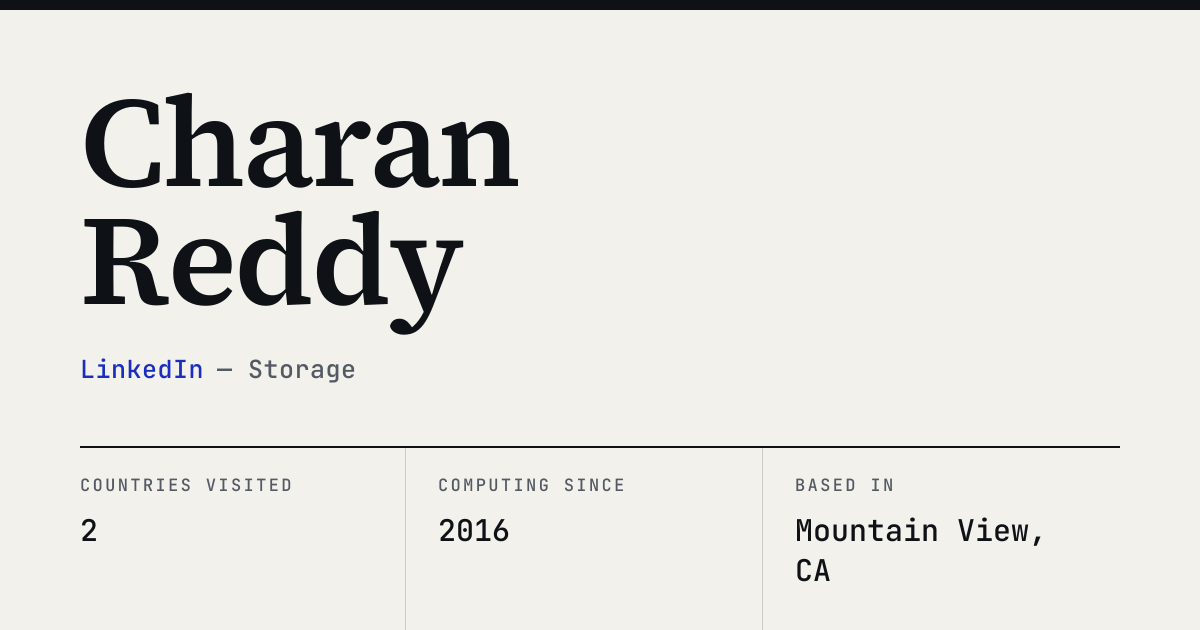
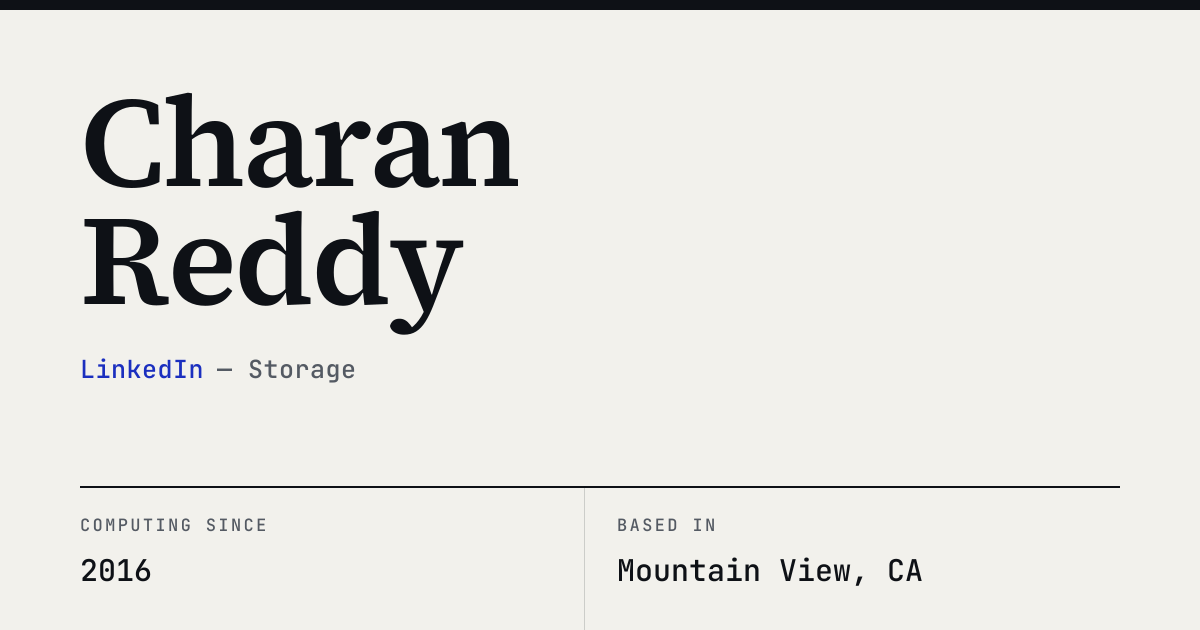
refactor: remove countriesVisited stat and dead telemetry constant
- Drop countriesVisited from profile, telemetry, the /stats page, and the
  OG card (generator readout + staleness snapshot); regenerate the share card
- Remove the now-dead COMPUTING_SINCE export (the OG card reads
  profile.computingSince directly; nothing imported the constant)
- Remove the countries-visited unit tests and the stale homepage guard
  assertion for it

diff --git a/src/components/__tests__/Stats/Personal.test.tsx b/src/components/__tests__/Stats/Personal.test.tsx
@@ -24,24 +24,11 @@ describe('Personal', () => {
     expect(screen.queryByText('Current age')).not.toBeInTheDocument();
   });
 
-  it('displays countries visited', () => {
-    render(<Personal />);
-
-    expect(screen.getByText('Countries visited')).toBeInTheDocument();
-    expect(screen.getByText('2')).toBeInTheDocument();
-  });
-
   it('displays current city', () => {
     render(<Personal />);
 
     expect(screen.getByText('Current city')).toBeInTheDocument();
     expect(screen.getByText('Mountain View, CA')).toBeInTheDocument();
-  });
-
-  it('does not invent a travel map for countries visited', () => {
-    render(<Personal />);
-
-    expect(screen.queryByRole('link', { name: /2/i })).not.toBeInTheDocument();
   });
 
   it('does not tick age on the stats page', () => {

diff --git a/src/data/__tests__/stats/personal.test.tsx b/src/data/__tests__/stats/personal.test.tsx
@@ -30,15 +30,6 @@ describe('personal stats data', () => {
     expect(ageStat).toBeUndefined();
   });
 
-  it('has a countries visited stat', () => {
-    const countriesStat = data.find((s) => s.key === 'countries');
-
-    expect(countriesStat).toBeDefined();
-    expect(countriesStat!.label).toBe('Countries visited');
-    expect(countriesStat!.value).toBe(2);
-    expect(countriesStat!.link).toBeUndefined();
-  });
-
   it('has a current location stat', () => {
     const locationStat = data.find((s) => s.key === 'location');
 

diff --git a/src/lib/telemetry.ts b/src/lib/telemetry.ts
@@ -20,12 +20,6 @@ export const BIRTH_DATE = profile.birthDate;
 /** Milliseconds in an average year, accounting for leap years. */
 export const MS_PER_YEAR = 1000 * 60 * 60 * 24 * 365.2421897;
 
-/** Year the first computer arrived in the bedroom. See `src/data/about.ts`. */
-export const COMPUTING_SINCE = profile.computingSince;
-
-/** Countries visited to date. */
-export const COUNTRIES_VISITED = profile.countriesVisited;
-
 /** Current home city. */
 export const CURRENT_CITY = profile.currentCity;
 

diff --git a/src/components/__tests__/Template/Hero.test.tsx b/src/components/__tests__/Template/Hero.test.tsx
@@ -43,7 +43,6 @@ describe('Hero', () => {
 
     expect(container.querySelector('.telemetry')).not.toBeInTheDocument();
     expect(container.querySelector('.hero-chips')).not.toBeInTheDocument();
-    expect(screen.queryByText('Countries visited')).not.toBeInTheDocument();
     expect(screen.queryByText('Computing since')).not.toBeInTheDocument();
     expect(screen.queryByText('Based in')).not.toBeInTheDocument();
     expect(screen.queryByText('YC Alum')).not.toBeInTheDocument();

diff --git a/src/data/stats/personal.tsx b/src/data/stats/personal.tsx
@@ -4,7 +4,6 @@ import useLiveAge from '@/hooks/useLiveAge';
 import {
   AGE_PRECISION_FULL,
   agePlaceholder,
-  COUNTRIES_VISITED,
   CURRENT_CITY,
 } from '@/lib/telemetry';
 
@@ -39,11 +38,6 @@ const data: StatData[] = [
         } satisfies StatData,
       ]
     : []),
-  {
-    key: 'countries',
-    label: 'Countries visited',
-    value: COUNTRIES_VISITED,
-  },
   {
     key: 'location',
     label: 'Current city',

diff --git a/docs/adapting-guide.md b/docs/adapting-guide.md
@@ -115,7 +115,7 @@ Identity data starts in shared files, but some text and links are hard-coded.
 | Sitemap URL for crawlers                                       | `public/robots.txt`                                                 |
 | RSS title and description                                      | `app/feed.xml/route.ts`                                             |
 | Repository statistics and GitHub API URL                       | `src/components/Stats/Site.tsx`, `src/data/stats/site.ts`           |
-| Countries map                                                  | `src/data/stats/personal.tsx`                                       |
+| Personal stats (location, etc.)                                | `src/data/stats/personal.tsx`                                       |
 
 Page titles and descriptions also contain personal copy in `app/layout.tsx` and
 the `page.tsx` files under `app/`. Structured data is assembled in
